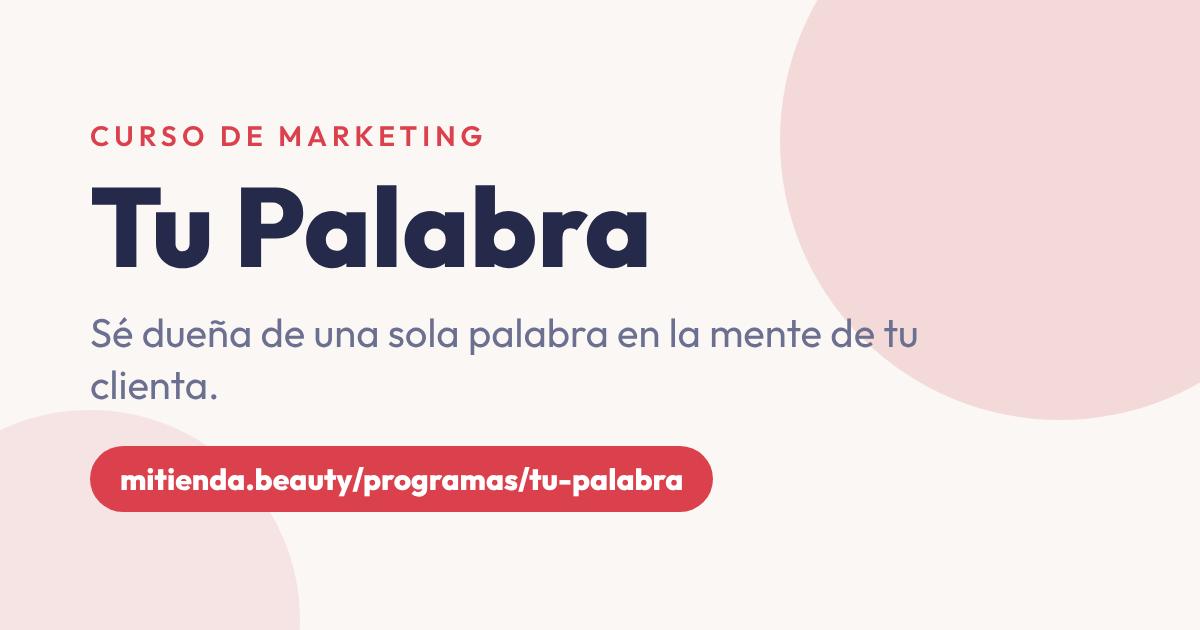
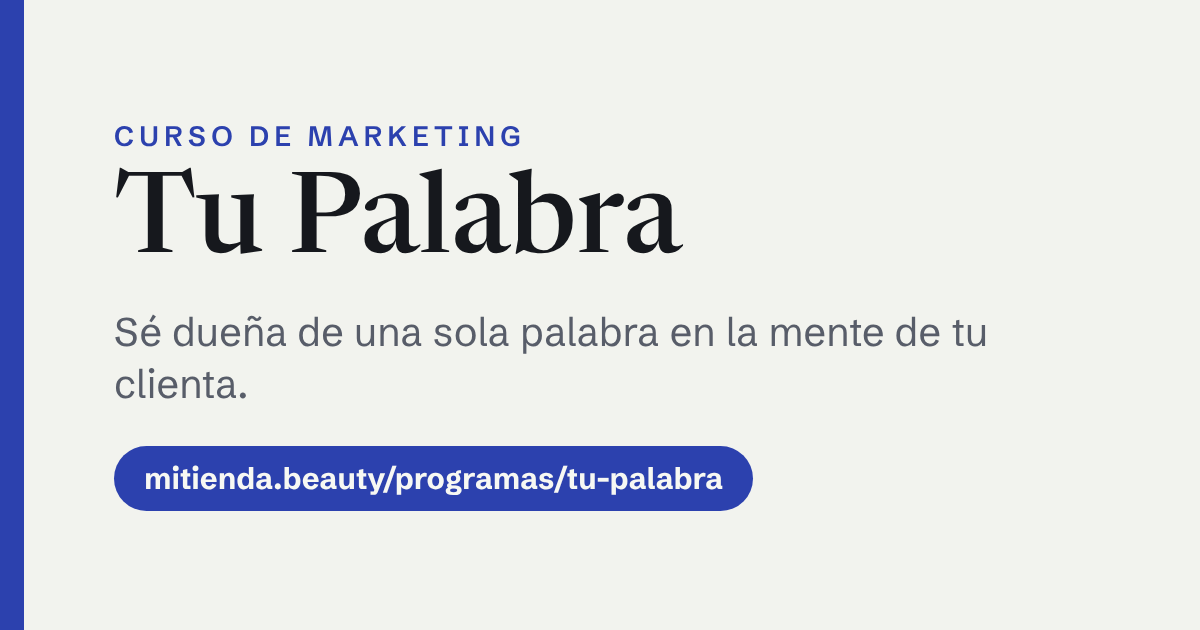
Preview de cada programa con los colores y letras de su página
Claude-Session: https://claude.ai/code/session_013vQ3whDhFBrDowNhjoPPwa

diff --git a/programas/index.html b/programas/index.html
@@ -6,11 +6,11 @@
 <meta property="og:type" content="website">
 <meta property="og:locale" content="es_MX">
 <meta property="og:url" content="https://mitienda.beauty/programas/">
-<meta property="og:image" content="https://mitienda.beauty/og/programas/escalera.png?v=13a844af">
+<meta property="og:image" content="https://mitienda.beauty/og/programas/escalera.png?v=6f1e74d8">
 <meta property="og:image:width" content="1200">
 <meta property="og:image:height" content="630">
 <meta name="twitter:card" content="summary_large_image">
-<meta name="twitter:image" content="https://mitienda.beauty/og/programas/escalera.png?v=13a844af">
+<meta name="twitter:image" content="https://mitienda.beauty/og/programas/escalera.png?v=6f1e74d8">
 <!--/og--><style>:root{color-scheme:light;box-sizing:border-box;padding-top:env(safe-area-inset-top,0px);padding-bottom:env(safe-area-inset-bottom,0px)}html{scroll-padding-top:env(safe-area-inset-top,0px)}body{margin:0;padding:0;font:14px -apple-system,BlinkMacSystemFont,sans-serif;background:#fff;color:#000}img{max-width:100%}[hidden]:not([hidden=until-found i]){display:none!important}</style></head><body>
 <!-- candado: pide contraseña antes de mostrar la escalera. Es protección del lado del navegador: no cifra nada. Para cambiar la contraseña, reemplaza H por el SHA-256 de la nueva en minúsculas. -->
 <meta name="robots" content="noindex,nofollow">

diff --git a/programas/mega/index.html b/programas/mega/index.html
@@ -6,11 +6,11 @@
 <meta property="og:type" content="website">
 <meta property="og:locale" content="es_MX">
 <meta property="og:url" content="https://mitienda.beauty/programas/mega/">
-<meta property="og:image" content="https://mitienda.beauty/og/programas/mega.png?v=8bfb3f70">
+<meta property="og:image" content="https://mitienda.beauty/og/programas/mega.png?v=1f6a3db0">
 <meta property="og:image:width" content="1200">
 <meta property="og:image:height" content="630">
 <meta name="twitter:card" content="summary_large_image">
-<meta name="twitter:image" content="https://mitienda.beauty/og/programas/mega.png?v=8bfb3f70">
+<meta name="twitter:image" content="https://mitienda.beauty/og/programas/mega.png?v=1f6a3db0">
 <!--/og--><style>:root{color-scheme:light;box-sizing:border-box;padding-top:env(safe-area-inset-top,0px);padding-bottom:env(safe-area-inset-bottom,0px)}html{scroll-padding-top:env(safe-area-inset-top,0px)}body{margin:0;padding:0;font:14px -apple-system,BlinkMacSystemFont,sans-serif;background:#fff;color:#000}img{max-width:100%}[hidden]:not([hidden=until-found i]){display:none!important}</style></head><body>
 <!-- candado: pide contraseña antes de mostrar la escalera. Es protección del lado del navegador: no cifra nada. Para cambiar la contraseña, reemplaza H por el SHA-256 de la nueva en minúsculas. -->
 <meta name="robots" content="noindex,nofollow">

diff --git a/programas/visible/index.html b/programas/visible/index.html
@@ -6,11 +6,11 @@
 <meta property="og:type" content="website">
 <meta property="og:locale" content="es_MX">
 <meta property="og:url" content="https://mitienda.beauty/programas/visible/">
-<meta property="og:image" content="https://mitienda.beauty/og/programas/visible.png?v=eb600991">
+<meta property="og:image" content="https://mitienda.beauty/og/programas/visible.png?v=eea423f5">
 <meta property="og:image:width" content="1200">
 <meta property="og:image:height" content="630">
 <meta name="twitter:card" content="summary_large_image">
-<meta name="twitter:image" content="https://mitienda.beauty/og/programas/visible.png?v=eb600991">
+<meta name="twitter:image" content="https://mitienda.beauty/og/programas/visible.png?v=eea423f5">
 <!--/og--><style>:root{color-scheme:light;box-sizing:border-box;padding-top:env(safe-area-inset-top,0px);padding-bottom:env(safe-area-inset-bottom,0px)}html{scroll-padding-top:env(safe-area-inset-top,0px)}body{margin:0;padding:0;font:14px -apple-system,BlinkMacSystemFont,sans-serif;background:#fff;color:#000}img{max-width:100%}[hidden]:not([hidden=until-found i]){display:none!important}</style></head><body><nav style="padding:12px 16px;font:600 14px system-ui"><a href="/programas/visible/tablero/">Tablero de Visible →</a></nav>
 <title>Visible</title>
 <link rel="preconnect" href="https://fonts.googleapis.com">

diff --git a/programas/a-la-vista/index.html b/programas/a-la-vista/index.html
@@ -5,11 +5,11 @@
 <meta property="og:type" content="website">
 <meta property="og:locale" content="es_MX">
 <meta property="og:url" content="https://mitienda.beauty/programas/a-la-vista/">
-<meta property="og:image" content="https://mitienda.beauty/og/programas/a-la-vista.png?v=4cc3b611">
+<meta property="og:image" content="https://mitienda.beauty/og/programas/a-la-vista.png?v=f5ef6278">
 <meta property="og:image:width" content="1200">
 <meta property="og:image:height" content="630">
 <meta name="twitter:card" content="summary_large_image">
-<meta name="twitter:image" content="https://mitienda.beauty/og/programas/a-la-vista.png?v=4cc3b611">
+<meta name="twitter:image" content="https://mitienda.beauty/og/programas/a-la-vista.png?v=f5ef6278">
 <!--/og--><title>A la vista</title><meta name="description" content="Diez clases cortas para dejar de esconder lo que haces: compartir tu proceso, contar tu historia y enseñar lo que sabes, sin sentir que te vendes a gritos."><style>:root{box-sizing:border-box;padding-top:env(safe-area-inset-top,0px);padding-bottom:env(safe-area-inset-bottom,0px)}html{scroll-padding-top:env(safe-area-inset-top,0px)}body{margin:0;padding:0}img{max-width:100%}[hidden]{display:none!important}</style></head><body>
 <title>A la vista</title>
 <link rel="preconnect" href="https://fonts.googleapis.com">

diff --git a/programas/clarito/index.html b/programas/clarito/index.html
@@ -5,11 +5,11 @@
 <meta property="og:type" content="website">
 <meta property="og:locale" content="es_MX">
 <meta property="og:url" content="https://mitienda.beauty/programas/clarito/">
-<meta property="og:image" content="https://mitienda.beauty/og/programas/clarito.png?v=c94428dd">
+<meta property="og:image" content="https://mitienda.beauty/og/programas/clarito.png?v=96d70ddd">
 <meta property="og:image:width" content="1200">
 <meta property="og:image:height" content="630">
 <meta name="twitter:card" content="summary_large_image">
-<meta name="twitter:image" content="https://mitienda.beauty/og/programas/clarito.png?v=c94428dd">
+<meta name="twitter:image" content="https://mitienda.beauty/og/programas/clarito.png?v=96d70ddd">
 <!--/og--><title>Clarito</title><meta name="description" content="Diez clases cortas para que tu clienta entienda en cinco segundos qué le ofreces, por qué le conviene y qué hacer para tenerlo."><style>:root{box-sizing:border-box;padding-top:env(safe-area-inset-top,0px);padding-bottom:env(safe-area-inset-bottom,0px)}html{scroll-padding-top:env(safe-area-inset-top,0px)}body{margin:0;padding:0}img{max-width:100%}[hidden]{display:none!important}</style></head><body>
 <link rel="preconnect" href="https://fonts.googleapis.com">
 <link rel="preconnect" href="https://fonts.gstatic.com" crossorigin>

diff --git a/programas/coherencia/index.html b/programas/coherencia/index.html
@@ -5,11 +5,11 @@
 <meta property="og:type" content="website">
 <meta property="og:locale" content="es_MX">
 <meta property="og:url" content="https://mitienda.beauty/programas/coherencia/">
-<meta property="og:image" content="https://mitienda.beauty/og/programas/coherencia.png?v=10bf2b90">
+<meta property="og:image" content="https://mitienda.beauty/og/programas/coherencia.png?v=9d181a5f">
 <meta property="og:image:width" content="1200">
 <meta property="og:image:height" content="630">
 <meta name="twitter:card" content="summary_large_image">
-<meta name="twitter:image" content="https://mitienda.beauty/og/programas/coherencia.png?v=10bf2b90">
+<meta name="twitter:image" content="https://mitienda.beauty/og/programas/coherencia.png?v=9d181a5f">
 <!--/og--><title>Coherencia</title><meta name="description" content="Diez clases para salir del piloto automático, volver al presente y sentir hoy la vida que quieres crear."><style>:root{color-scheme:light;box-sizing:border-box;padding-top:env(safe-area-inset-top,0px);padding-bottom:env(safe-area-inset-bottom,0px)}html{scroll-padding-top:env(safe-area-inset-top,0px)}body{margin:0;padding:0}img{max-width:100%}[hidden]{display:none!important}</style></head><body>
 <meta name="claude:viewport-fit-sides" content="cover">
 <link rel="preconnect" href="https://fonts.googleapis.com">

diff --git a/programas/todavia/index.html b/programas/todavia/index.html
@@ -5,11 +5,11 @@
 <meta property="og:type" content="website">
 <meta property="og:locale" content="es_MX">
 <meta property="og:url" content="https://mitienda.beauty/programas/todavia/">
-<meta property="og:image" content="https://mitienda.beauty/og/programas/todavia.png?v=abee32c9">
+<meta property="og:image" content="https://mitienda.beauty/og/programas/todavia.png?v=4d7f84fd">
 <meta property="og:image:width" content="1200">
 <meta property="og:image:height" content="630">
 <meta name="twitter:card" content="summary_large_image">
-<meta name="twitter:image" content="https://mitienda.beauty/og/programas/todavia.png?v=abee32c9">
+<meta name="twitter:image" content="https://mitienda.beauty/og/programas/todavia.png?v=4d7f84fd">
 <!--/og--><title>Todavía</title><meta name="description" content="Diez clases para dejar de preguntarte si eres buena para algo y empezar a preguntarte cómo aprenderlo."><style>:root{box-sizing:border-box;padding-top:env(safe-area-inset-top,0px);padding-bottom:env(safe-area-inset-bottom,0px)}html{scroll-padding-top:env(safe-area-inset-top,0px)}body{margin:0;padding:0}img{max-width:100%}[hidden]{display:none!important}</style></head><body>
 <link rel="preconnect" href="https://fonts.googleapis.com">
 <link rel="preconnect" href="https://fonts.gstatic.com" crossorigin>

diff --git a/programas/pasalo/index.html b/programas/pasalo/index.html
@@ -5,11 +5,11 @@
 <meta property="og:type" content="website">
 <meta property="og:locale" content="es_MX">
 <meta property="og:url" content="https://mitienda.beauty/programas/pasalo/">
-<meta property="og:image" content="https://mitienda.beauty/og/programas/pasalo.png?v=429e5f36">
+<meta property="og:image" content="https://mitienda.beauty/og/programas/pasalo.png?v=488f5a50">
 <meta property="og:image:width" content="1200">
 <meta property="og:image:height" content="630">
 <meta name="twitter:card" content="summary_large_image">
-<meta name="twitter:image" content="https://mitienda.beauty/og/programas/pasalo.png?v=429e5f36">
+<meta name="twitter:image" content="https://mitienda.beauty/og/programas/pasalo.png?v=488f5a50">
 <!--/og--><title>Pásalo</title><meta name="description" content="Diez clases cortas para que la gente hable de lo que vendes: las seis razones por las que algo se comparte."><style>:root{box-sizing:border-box;padding-top:env(safe-area-inset-top,0px);padding-bottom:env(safe-area-inset-bottom,0px)}html{scroll-padding-top:env(safe-area-inset-top,0px)}body{margin:0;padding:0}img{max-width:100%}[hidden]{display:none!important}</style></head><body>
 <link rel="preconnect" href="https://fonts.googleapis.com">
 <link rel="preconnect" href="https://fonts.gstatic.com" crossorigin>

diff --git a/programas/el-clic/index.html b/programas/el-clic/index.html
@@ -6,11 +6,11 @@
 <meta property="og:type" content="website">
 <meta property="og:locale" content="es_MX">
 <meta property="og:url" content="https://mitienda.beauty/programas/el-clic/">
-<meta property="og:image" content="https://mitienda.beauty/og/programas/el-clic.png?v=ef3d2e69">
+<meta property="og:image" content="https://mitienda.beauty/og/programas/el-clic.png?v=5dfe290c">
 <meta property="og:image:width" content="1200">
 <meta property="og:image:height" content="630">
 <meta name="twitter:card" content="summary_large_image">
-<meta name="twitter:image" content="https://mitienda.beauty/og/programas/el-clic.png?v=ef3d2e69">
+<meta name="twitter:image" content="https://mitienda.beauty/og/programas/el-clic.png?v=5dfe290c">
 <!--/og--><style>:root{color-scheme:light;box-sizing:border-box;padding-top:env(safe-area-inset-top,0px);padding-bottom:env(safe-area-inset-bottom,0px)}html{scroll-padding-top:env(safe-area-inset-top,0px)}body{margin:0;padding:0;font:14px -apple-system,BlinkMacSystemFont,sans-serif;background:#fff;color:#000}img{max-width:100%}[hidden]:not([hidden=until-found i]){display:none!important}</style></head><body><title>El Clic</title>
 <link rel="preconnect" href="https://fonts.googleapis.com">
 <link rel="preconnect" href="https://fonts.gstatic.com" crossorigin>

diff --git a/programas/el-si/index.html b/programas/el-si/index.html
@@ -5,11 +5,11 @@
 <meta property="og:type" content="website">
 <meta property="og:locale" content="es_MX">
 <meta property="og:url" content="https://mitienda.beauty/programas/el-si/">
-<meta property="og:image" content="https://mitienda.beauty/og/programas/el-si.png?v=05374153">
+<meta property="og:image" content="https://mitienda.beauty/og/programas/el-si.png?v=479a8a28">
 <meta property="og:image:width" content="1200">
 <meta property="og:image:height" content="630">
 <meta name="twitter:card" content="summary_large_image">
-<meta name="twitter:image" content="https://mitienda.beauty/og/programas/el-si.png?v=05374153">
+<meta name="twitter:image" content="https://mitienda.beauty/og/programas/el-si.png?v=479a8a28">
 <!--/og--><title>El Sí</title><meta name="description" content="Ocho clases cortas sobre los seis atajos que hacen que alguien diga que sí, usados con honestidad."><style>:root{box-sizing:border-box;padding-top:env(safe-area-inset-top,0px);padding-bottom:env(safe-area-inset-bottom,0px)}html{scroll-padding-top:env(safe-area-inset-top,0px)}body{margin:0;padding:0}img{max-width:100%}[hidden]{display:none!important}</style></head><body>
 <link rel="preconnect" href="https://fonts.googleapis.com">
 <link rel="preconnect" href="https://fonts.gstatic.com" crossorigin>

diff --git a/programas/botin/index.html b/programas/botin/index.html
@@ -5,11 +5,11 @@
 <meta property="og:type" content="website">
 <meta property="og:locale" content="es_MX">
 <meta property="og:url" content="https://mitienda.beauty/programas/botin/">
-<meta property="og:image" content="https://mitienda.beauty/og/programas/botin.png?v=a7d705a4">
+<meta property="og:image" content="https://mitienda.beauty/og/programas/botin.png?v=66d97149">
 <meta property="og:image:width" content="1200">
 <meta property="og:image:height" content="630">
 <meta name="twitter:card" content="summary_large_image">
-<meta name="twitter:image" content="https://mitienda.beauty/og/programas/botin.png?v=a7d705a4">
+<meta name="twitter:image" content="https://mitienda.beauty/og/programas/botin.png?v=66d97149">
 <!--/og--><title>Botín</title><meta name="description" content="Diez clases cortas para dejar de esperar la idea perfecta y crear con lo que ya te inspira."><style>:root{box-sizing:border-box;padding-top:env(safe-area-inset-top,0px);padding-bottom:env(safe-area-inset-bottom,0px)}html{scroll-padding-top:env(safe-area-inset-top,0px)}body{margin:0;padding:0}img{max-width:100%}[hidden]{display:none!important}</style></head><body>
 <link rel="preconnect" href="https://fonts.googleapis.com">
 <link rel="preconnect" href="https://fonts.gstatic.com" crossorigin>

diff --git a/programas/encendida/index.html b/programas/encendida/index.html
@@ -6,11 +6,11 @@
 <meta property="og:type" content="website">
 <meta property="og:locale" content="es_MX">
 <meta property="og:url" content="https://mitienda.beauty/programas/encendida/">
-<meta property="og:image" content="https://mitienda.beauty/og/programas/encendida.png?v=6cb3125a">
+<meta property="og:image" content="https://mitienda.beauty/og/programas/encendida.png?v=d30022dc">
 <meta property="og:image:width" content="1200">
 <meta property="og:image:height" content="630">
 <meta name="twitter:card" content="summary_large_image">
-<meta name="twitter:image" content="https://mitienda.beauty/og/programas/encendida.png?v=6cb3125a">
+<meta name="twitter:image" content="https://mitienda.beauty/og/programas/encendida.png?v=d30022dc">
 <!--/og--><style>:root{color-scheme:light;box-sizing:border-box;padding-top:env(safe-area-inset-top,0px);padding-bottom:env(safe-area-inset-bottom,0px)}html{scroll-padding-top:env(safe-area-inset-top,0px)}body{margin:0;padding:0;font:14px -apple-system,BlinkMacSystemFont,sans-serif;background:#fff;color:#000}img{max-width:100%}[hidden]:not([hidden=until-found i]){display:none!important}</style></head><body>
 <title>Encendida</title>
 <link rel="preconnect" href="https://fonts.googleapis.com">
